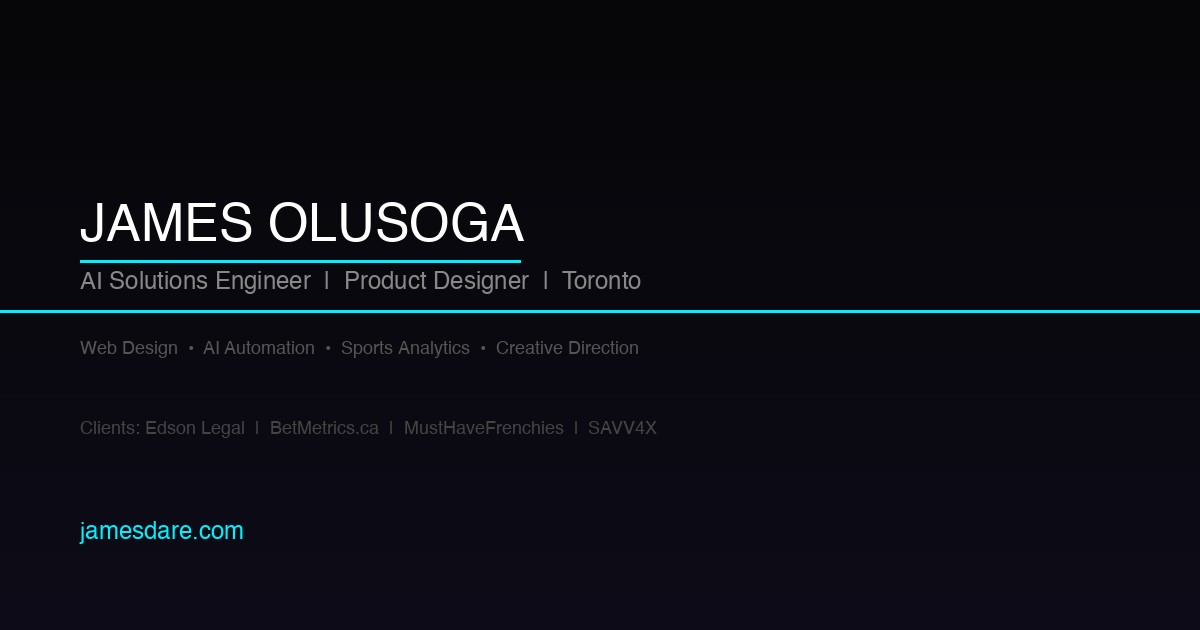
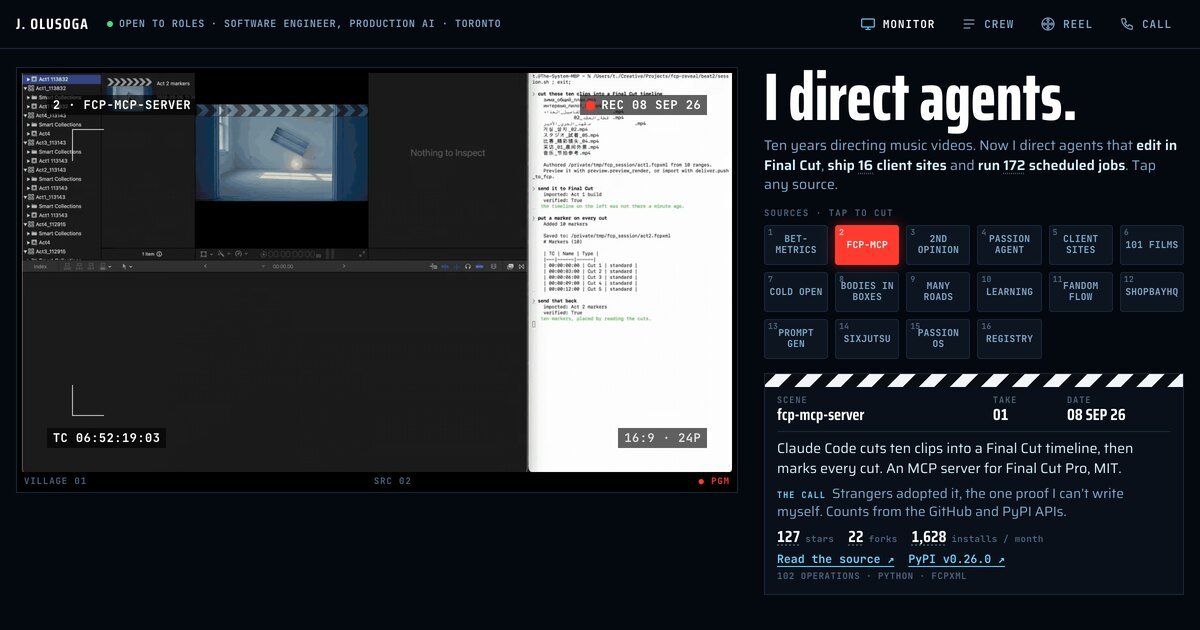
fix(4.62.1): the live numbers publish themselves
The live page was showing figures from 2026-10-19/23 (127 stars, PyPI
v0.26.0, BIB counts "12 DAYS OLD"). build-figures had refused every run
since 10-23 because the retired BIB launch-week uptime probe kept logging
"past", which bib-panel.py reads as a fault (probe unloaded, plist kept as
.disabled). Separately, nothing ever committed the generator's output.

- tools/publish-live-data.sh (launchd com.daredev.jamesdare-data-publish,
  daily 09:40): regenerate figures, client roster, agent state, activity
  feed; commit only those four files; push main. Refuses off main, on a
  generator refusal, or when the page reads a figure the data lacks.
  Deploys only on a value change or a 30 h-old activity feed. Refusal =
  #alerts + exit 2. Mutation-checked both refusal paths.
- New 1200x630 og-preview.jpg of the monitor homepage.

Claude-Session: https://claude.ai/code/session_01MajkfykdEK7CCwuT2a8esz

diff --git a/js/version.js b/js/version.js
@@ -4,4 +4,4 @@
  * HTML references (title, top bar) are synced manually on bumps
  * but login.js, boot sequence, and typewriter all read this constant.
  */
-export const VERSION = '4.62.0';
+export const VERSION = '4.62.1';

diff --git a/CHANGELOG.md b/CHANGELOG.md
@@ -3,7 +3,7 @@
 ---
 
 title: Passion OS Changelog
-version: 4.62.0
+version: 4.62.1
 last_updated: 2026-10-31
 
 ---
@@ -11,6 +11,12 @@ last_updated: 2026-10-31
 <!-- AI Context: Complete development history organized by phases.
      Related files: All js/*.js, css/*.css
      See: DOCUMENTATION.md for usage, FEATURE_VERIFICATION.md for testing -->
+
+## 4.62.1 — 2026-10-31 · The live numbers publish themselves
+
+- **Why the figures froze.** The live page showed 127 stars, PyPI v0.26.0 and Bodies In Boxes counts "12 DAYS OLD". `tools/build-figures.mjs` had refused every run since 2026-10-23: the BIB launch-week uptime probe (`com.daredev.bib-uptime`) kept logging "past 2026-10-23, nothing to do" every 10 minutes, and `bib-panel.py` read any non-green line as a fault. The probe's window is over, so it is unloaded (`com.daredev.bib-uptime.plist.disabled`, restorable). And even when the generator did run, nothing committed its output: Vercel served the committed copy while a fresher file sat in the working tree.
+- **`tools/publish-live-data.sh`**, run daily at 09:40 by `com.daredev.jamesdare-data-publish`. It regenerates figures, the client roster, the agent's state and its activity feed, then commits ONLY those four files and pushes main. It refuses off main, refuses when either generator refuses, and refuses when the page reads a figure the new data lacks (`tests/monitor.test.js`, `tests/bib-gate.test.js`). It deploys only when a value changed or the published activity feed is 30 h old, never for a timestamp alone. A refusal posts to #alerts the same day and exits 2. Mutation-checked: a planted unknown figure and the old refusing panel each make it fail loud.
+- **New link preview.** `public/thumbnails/og-preview.jpg` is a 1200x630 frame of the monitor homepage, replacing the old page.
 
 ## 4.62.0 — 2026-10-31 · The homepage becomes a director's monitor
 
